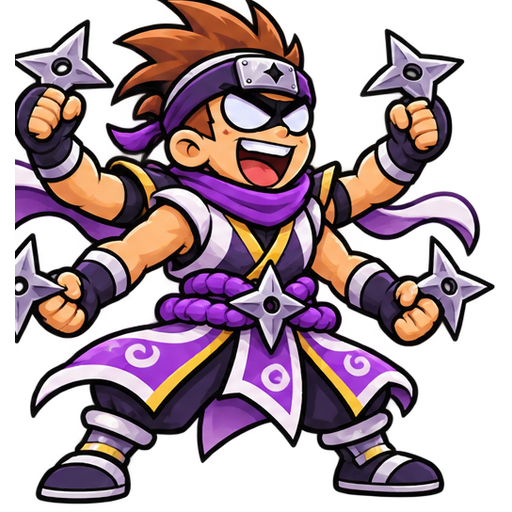
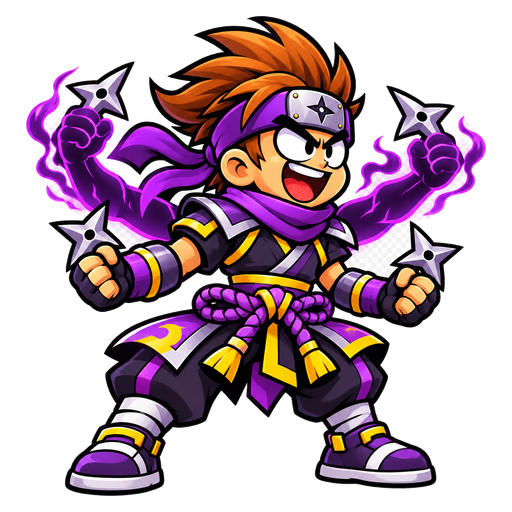
Add files via upload

diff --git a/app.js b/app.js
@@ -1,8 +1,8 @@
-/* Baston TV — Prototype 0.21.1. Aucun framework, ni serveur, ni compte requis. */
+/* Baston TV — Prototype 0.22. Aucun framework, ni serveur, ni compte requis. */
 "use strict";
 
 const SAVE_KEY = "bastontv-save-v03";
-const VERSION_LABEL = "0.21.1";
+const VERSION_LABEL = "0.22";
 const BASE_TRAINING_COST = 100;
 const TRAINING_INCREASE_EVERY = 3;
 const TRAINING_INCREASE_AMOUNT = 20;
@@ -46,7 +46,8 @@ const NINJA_LEVELS = [null,
 ];
 const NINJA_EQUIPMENT = [
   {id:'masque',label:'Masque',icon:'🥷'}, {id:'kunai',label:'Kunaï',icon:'🗡'},
-  {id:'tenue',label:'Tenue ninja',icon:'🥋'}, {id:'sandales',label:'Sandales',icon:'👣'}
+  {id:'tenue',label:'Tenue ninja',icon:'🥋'}, {id:'sandales',label:'Sandales',icon:'👣'},
+  {id:'shuriken',label:'Shuriken',icon:'🌟'}
 ];
 const SUMO_LEVELS = [null,
   {name:'Bébé Sumo',income:5},{name:'Le Poussin',income:12},{name:'L’Apprenti',income:29},
@@ -54,7 +55,8 @@ const SUMO_LEVELS = [null,
 ];
 const SUMO_EQUIPMENT = [
   {id:'mawashi',label:'Mawashi',icon:'🥋'}, {id:'chignon',label:'Chignon',icon:'🎀'},
-  {id:'bandages',label:'Bandages',icon:'🩹'}, {id:'corde',label:'Corde sacrée',icon:'🪢'}
+  {id:'bandages',label:'Bandages',icon:'🩹'}, {id:'corde',label:'Corde sacrée',icon:'🪢'},
+  {id:'sel',label:'Sel sacré',icon:'🧂'}, {id:'genouilleres',label:'Genouillères',icon:'🦵'}
 ];
 const ROBOT_LEVELS = [null,
   {name:'Bébé Boulon',income:6},{name:'Le Bidule',income:15},{name:'Le Turbo',income:38},
@@ -62,7 +64,9 @@ const ROBOT_LEVELS = [null,
 ];
 const ROBOT_EQUIPMENT = [
   {id:'boulons',label:'Boulons',icon:'🔩'}, {id:'puce',label:'Puce',icon:'💾'},
-  {id:'batterie',label:'Batterie',icon:'🔋'}, {id:'blindage',label:'Blindage',icon:'🛡'}
+  {id:'batterie',label:'Batterie',icon:'🔋'}, {id:'blindage',label:'Blindage',icon:'🛡'},
+  {id:'lentille',label:'Lentille optique',icon:'🔎'}, {id:'antenne',label:'Antenne',icon:'📡'},
+  {id:'servo',label:'Servo-moteur',icon:'⚙'}
 ];
 const LEVELS = [null,
   { name: "Bébé Bourrin", income: 3 },
@@ -101,6 +105,23 @@ const familyTabs = (selected,action) => `<div class="family-tabs" role="group" a
   if (!revealed) return action==='select-channel' ? '<span class="family-tab family-mystery" aria-label="Chaîne encore mystérieuse">🔒 ???</span>' : '';
   return `<button type="button" class="family-tab ${selected===f?'active':''}" data-action="${action}" data-family="${f}">${FAMILY_DATA[f].icon} ${FAMILY_DATA[f].name}${isFamilyUnlocked(f)?'':' 🔒'}</button>`;
 }).join('')}</div>`;
+function markEvolutionFound(fighter) {
+  const family=familyOf(fighter);
+  if (!game.evolutionJournal || typeof game.evolutionJournal!=='object') game.evolutionJournal={};
+  if (!game.evolutionJournal[family]) game.evolutionJournal[family]={};
+  // Toutes les étapes intermédiaires ont déjà été atteintes pour arriver ici.
+  for (let lvl=1;lvl<=fighter.level;lvl++) game.evolutionJournal[family][lvl]=true;
+}
+function evolutionJournalHtml(family) {
+  if (!isFamilyUnlocked(family)) return '';
+  return `<div class="evolution-journal-grid">${familyLevels(family).slice(1).map((stage,index)=>{
+    const level=index+1, found=Boolean(game.evolutionJournal?.[family]?.[level]);
+    return `<div class="evolution-journal-card ${found?'is-found':'is-hidden'}">
+      <div class="journal-art">${found?`<img loading="lazy" src="${imageFor(level,family)}" alt="${stage.name}">`:'<span aria-hidden="true">❔</span>'}</div>
+      <small>Niv. ${level}</small><strong>${found?stage.name:'???'}</strong>
+    </div>`;
+  }).join('')}</div>`;
+}
 const evolutionClass = level => level === 6 ? ' evolution-6' : '';
 function evolutionDecoration(level,family='boxe') {
   // Compatibilité des emplacements des anciennes décorations : le sprite complet
@@ -129,7 +150,8 @@ function freshSave() {
     gymCompanionId: null,
     eggs: [],
     shinyAlbum: {boxe:{},ninja:{},sumo:{},robot:{}},
-    schemaVersion: 21,
+    evolutionJournal: {boxe:{1:true},ninja:{},sumo:{},robot:{}},
+    schemaVersion: 22,
     devMode: false,
     nextFreeShopEggAt: 0,
     proteins: 0
@@ -231,6 +253,15 @@ if ((game.schemaVersion||0)<19) game.schemaVersion=19;
 if ((game.schemaVersion||0)<20) game.schemaVersion=20;
 // v0.21 : changement visuel et d’équilibrage uniquement, aucune ressource retirée.
 if ((game.schemaVersion||0)<21) game.schemaVersion=21;
+// v0.22 : archive permanente des stades atteints. Les objets existants
+// sont conservés ; les nouveaux équipements démarrent à 0.
+if (!game.evolutionJournal || typeof game.evolutionJournal !== 'object') game.evolutionJournal={};
+for (const f of FAMILY_ORDER) if (!game.evolutionJournal[f] || typeof game.evolutionJournal[f]!=='object') game.evolutionJournal[f]={};
+for (const fighter of game.fighters) {
+  const f=familyOf(fighter);
+  for (let level=1;level<=fighter.level;level++) game.evolutionJournal[f][level]=true;
+}
+if ((game.schemaVersion||0)<22) game.schemaVersion=22;
 let currentView = "home";
 let training = null;
 let latestReward = null;
@@ -452,6 +483,10 @@ function readableDuration(ms) {
 function channelLevel(family) {return game.channelLevels?.[family]||1;}
 function channelBonusPercent(family) {return CHANNEL_BONUSES[channelLevel(family)]||0;}
 function nextChannelUpgradeCost(family) {const level=channelLevel(family);return level>=CHANNEL_MAX_LEVEL?null:Math.round((CHANNEL_UPGRADE_COSTS[level]||11200)*({boxe:1,ninja:1.3,sumo:1.6,robot:2.2}[family]||1));}
+function nextChannelUpgradeGems(family) {
+  const level=channelLevel(family);
+  return level===8 ? 5 : level===9 ? 10 : 0;
+}
 function channelIncome(family) {
   if(!isFamilyUnlocked(family))return 0;
   const twoBest=familyFighters(family).sort(sortFighters).slice(0,2);
@@ -596,6 +631,7 @@ function homeScreen() {
   const info=FAMILY_DATA[family];
   const onAir=unlocked?strongestFighters(family):[];
   const nextCost=unlocked?nextChannelUpgradeCost(family):null;
+  const nextGems=unlocked?nextChannelUpgradeGems(family):0;
   return `<span class="kicker">📡 Les chaînes TV</span><h1 class="h1">Bienvenue au studio !</h1>
     <p class="muted">Chaque famille possède sa chaîne, ses deux vedettes et ses propres améliorations. Les revenus des chaînes se cumulent, même quand tu regardes une autre chaîne.</p>
     ${familyTabs(family,'select-channel')}
@@ -617,14 +653,13 @@ function homeScreen() {
     <button type="button" class="action pink" data-action="go-combat">⚔ Aller combattre</button>
     ${unlocked?`<section class="card"><h2>🔧 Améliorer ${info.channel}</h2>
       <p class="muted">${CHANNEL_MAX_LEVEL} niveaux par chaîne. Les améliorations ne renforcent que ${info.channel}, avec un bonus maximum de +100 %.</p>
-      <div class="price"><span>Prochain niveau</span><span>${nextCost?`🪙 ${format(nextCost)}`:'MAX'}</span></div>
-      <button class="action" type="button" data-action="upgrade" ${!nextCost || game.coins<nextCost?'disabled':''}>${nextCost?`Améliorer (+${CHANNEL_BONUSES[channelLevel(family)+1]-channelBonusPercent(family)} %)`:'Chaîne au maximum'}</button></section>`:''}
+      <div class="price"><span>Prochain niveau</span><span>${nextCost?`🪙 ${format(nextCost)}${nextGems?` + 💎 ${nextGems}`:''}`:'MAX'}</span></div>
+      <button class="action" type="button" data-action="upgrade" ${!nextCost || game.coins<nextCost || game.gems<nextGems?'disabled':''}>${nextCost?`Améliorer (+${CHANNEL_BONUSES[channelLevel(family)+1]-channelBonusPercent(family)} %)`:'Chaîne au maximum'}</button>
+      <p class="subnote">Niveaux 1 à 8 : pièces uniquement. Niveau 9 : +5 💎 · Niveau 10 : +10 💎.</p></section>`:''}
     ${unlocked?`<section class="card evolution-roadmap"><h2>${info.icon} Évolutions ${info.name}</h2>
       <p class="muted">Six stades. Il faut 32 recrues niveau 1 pour créer un niveau 6 sans protéine.</p>
-      <div class="evolution-roadmap-grid">${familyLevels(family).slice(1).map((stage,index)=>{
-        const level=index+1,found=familyFighters(family).some(f=>f.level>=level);
-        return `<div class="roadmap-step ${found?'roadmap-unlocked':''}"><small>Stade ${level}</small><strong>${found?'✓':'🔒'} ${stage.name}</strong><span>+${stage.income} 🪙/min</span></div>`;
-      }).join('')}</div></section>`:'<section class="card mystery-roadmap"><h2>🔒 Évolutions secrètes</h2><p class="muted">Débloque cette chaîne pour découvrir ses six évolutions et leurs revenus.</p></section>'}
+      ${evolutionJournalHtml(family)}
+      <p class="subnote">Les illustrations découvertes restent visibles après tes fusions.</p></section>`:'<section class="card mystery-roadmap"><h2>🔒 Évolutions secrètes</h2><p class="muted">Débloque cette chaîne pour découvrir ses six évolutions et leurs revenus.</p></section>'}
     <section class="install-panel" id="install-panel"><h2>📱 Baston TV sur ton téléphone</h2>
       <p>Installe le jeu depuis ton navigateur pour le retrouver sur ton écran d’accueil.</p>
       <button class="action secondary" type="button" data-action="install-app" id="install-app-button">📲 Installer Baston TV</button></section>`;
@@ -635,14 +670,15 @@ function gymScreen() {
   if(training)return `<span class="kicker">🥊 Entraînement ${FAMILY_DATA[family].name}</span><h1 class="h1">Frappe les points faibles !</h1>
     <div class="train-stat"><span>⏱ <span id="training-timer">20,0</span> s</span><span>⭐ <span id="training-hits">0</span> touches</span><span>🔥 <span id="training-combo">0</span></span><span>❌ <span id="training-misses">0</span></span></div>
     <div class="progress"><span id="training-progress" style="width:100%"></span></div>
-    <div class="bag-arena" id="bag-arena" style="margin-top:12px"><span class="gym-status" id="gym-status">Vise la cible !</span>${gymCompanionHtml(companion)}<div class="bag-swing" id="bag-swing"><div class="bag-cable" aria-hidden="true"></div><div class="bag" id="bag"><button class="spot" id="spot" data-action="hit" aria-label="Frapper le point faible" style="left:50%;top:45%"></button></div></div></div>
+    <div class="bag-arena" id="bag-arena" style="margin-top:12px"><span class="gym-status" id="gym-status">Vise la cible !</span>${gymCompanionHtml(companion)}<div class="bag-swing" id="bag-swing"><div class="bag-cable" aria-hidden="true"></div><div class="bag bag-${family}" id="bag"><button class="spot" id="spot" data-action="hit" aria-label="Frapper le point faible" style="left:50%;top:45%"></button></div></div></div>
     <p class="muted">Tu récoltes uniquement des équipements ${FAMILY_DATA[family].name} pendant cette séance.</p>`;
   const result=latestReward?`<section class="card"><h2>🎁 Dernière séance · ${FAMILY_DATA[latestReward.family||'boxe'].name}</h2><p class="muted">${latestReward.hits} point(s) · combo : ${latestReward.best} · erreurs : ${latestReward.misses}</p>
       <div class="reward-list">${latestReward.items.length?latestReward.items.map(id=>{const item=familyEquipment(latestReward.family||'boxe').find(x=>x.id===id);return `<span class="reward-bubble">${item?.icon||''} ${item?.label||id}</span>`;}).join(''):'<span>Aucun équipement cette fois.</span>'}</div></section>`:'';
   return `<span class="kicker">🎯 Les coulisses</span><h1 class="h1">Salle d'entraînement</h1>
     <p class="muted">Choisis la famille à entraîner : les équipements récoltés serviront uniquement à recruter des combattants de cette famille.</p>
     ${familyTabs(family,'select-gym-family')}
-    <div class="bag-arena">${gymCompanionHtml(companion)}<div class="bag-swing"><div class="bag-cable" aria-hidden="true"></div><div class="bag"><div class="spot" style="left:49%;top:34%;pointer-events:none"></div></div></div></div>
+    <p class="subnote training-target-name">${({boxe:"🥊 Sac de frappe",ninja:"🥷 Mannequin de bois",sumo:"🥋 Pilier de poussée",robot:"🤖 Cible mécanique"})[family]}</p>
+    <div class="bag-arena">${gymCompanionHtml(companion)}<div class="bag-swing"><div class="bag-cable" aria-hidden="true"></div><div class="bag bag-${family}"><div class="spot" style="left:49%;top:34%;pointer-events:none"></div></div></div></div>
     <button class="action gym-start-cta" type="button" data-action="start-training" ${game.coins<trainingCost(family)?'disabled':''}>🥊 Commencer la séance ${FAMILY_DATA[family].icon} · ${format(trainingCost(family))} 🪙</button>
     ${gymRosterHtml(companion)}
     <div class="stat-grid"><div class="stat"><small>⏱ Durée</small><b>20 s</b></div><div class="stat"><small>🪙 Prix ${FAMILY_DATA[family].name}</small><b>${format(trainingCost(family))}</b></div></div>
@@ -682,7 +718,7 @@ function collectionScreen() {
       <p class="subnote">Normal + normal → normal · Shiny + shiny → shiny. Pas de mélange entre les familles.</p></section>
     <section class="card"><h2>🎁 Équipements ${info.name}</h2><div class="eq-grid">${equipment.map(item=>`<div class="eq-item ${inventory[item.id]>0?'ready':''}"><span>${item.icon} ${item.label}</span><b>×${inventory[item.id]}</b></div>`).join('')}</div>
       <button class="action" type="button" data-action="recruit" ${ready?'':'disabled'}>${info.icon} Recruter : ${familyLevels(family)[1].name}</button>
-      <p class="subnote">Consomme un exemplaire de chaque équipement ${info.name}. Les équipements sont propres à chaque famille.</p></section>
+      <p class="subnote">Recrutement ${info.name} : <b>${equipment.length} équipements différents</b>, un exemplaire de chacun. Les familles suivantes sont plus difficiles à recruter.</p></section>
     <section class="card protein-panel"><h2>🥤 Protéine d'évolution</h2>
       <p class="muted">Tu possèdes <b>${game.proteins} protéine(s)</b>. Utilisable sur toutes les familles, même sur un shiny.</p>
       <label for="protein-fighter" class="protein-label">Choisir le bénéficiaire</label>
@@ -705,7 +741,7 @@ function fuseFighters(firstId, secondId) {
   const companionWasUsed = game.gymCompanionId===a.id || game.gymCompanionId===b.id;
   const fused = {id:getNewId(),family:familyOf(a),level:newLevel,shiny:Boolean(a.shiny)};
   game.fighters=game.fighters.filter(f=>f.id!==a.id && f.id!==b.id);
-  game.fighters.push(fused);
+  game.fighters.push(fused);markEvolutionFound(fused);
   if (companionWasUsed) game.gymCompanionId=fused.id;
   if (a.shiny) game.shinyAlbum[familyOf(a)][newLevel]=true;
   clearLockerSelection();
@@ -824,6 +860,10 @@ function laterScreen() {
       ${!game.eggs.length?'<p class="subnote">Achète un œuf ou gagne sept combats pour remplir l’incubateur.</p>':''}
       <p class="subnote">Les gemmes réduisent l'incubation de 30 minutes. Les shinies gardent les mêmes statistiques que les normaux.</p>
     </section>
+    <section class="card"><h2>📖 Journal des évolutions</h2>
+      <p class="muted">Retrouve les personnages que tu as déjà découverts. Les autres restent mystérieux.</p>
+      ${FAMILY_ORDER.filter(f=>isFamilyUnlocked(f)).map(f=>`<details class="shop-journal-family"><summary>${FAMILY_DATA[f].icon} ${FAMILY_DATA[f].name} · ${Object.values(game.evolutionJournal?.[f]||{}).filter(Boolean).length}/6 découvertes</summary>${evolutionJournalHtml(f)}</details>`).join('')}
+    </section>
     <section class="card"><h2>✨ Album shiny — Toutes les familles</h2>${shinyEntries}
       <p class="muted">Chaque nouvelle évolution shiny découverte rapporte <b>+1 % de revenus TV permanents</b>. Bonus actuel : <b>+${shinyBonusPercent()} %</b>.</p>
     </section>
@@ -850,7 +890,7 @@ function hatchEgg(id) {
   const egg=game.eggs.find(e=>e.id===id);
   if (!egg || eggState(egg)!=='ready') return;
   const fighter={id:getNewId(),family:familyOf(egg),level:egg.level,shiny:Boolean(egg.shiny)};
-  game.fighters.push(fighter);
+  game.fighters.push(fighter);markEvolutionFound(fighter);
   if (fighter.shiny) game.shinyAlbum[familyOf(fighter)][fighter.level]=true;
   game.eggs=game.eggs.filter(e=>e.id!==id);
   playSound('recruit');save();render();
@@ -903,7 +943,7 @@ function useProtein() {
   if (fighter.level >= MAX_FIGHTER_LEVEL) return showToast('Ce combattant est déjà au niveau 6.');
   const before=fighterName(fighter), after=familyLevels(familyOf(fighter))[fighter.level+1].name;
   if (!window.confirm(`Utiliser 1 protéine sur ${before}${fighter.shiny?' ✨ shiny':''} ? Il deviendra ${after}, sans utiliser de deuxième combattant.`)) return;
-  fighter.level++;
+  fighter.level++;markEvolutionFound(fighter);
   game.proteins--;
   if (fighter.shiny) game.shinyAlbum[familyOf(fighter)][fighter.level]=true;
   clearLockerSelection();
@@ -1127,12 +1167,14 @@ function startCombatStrike() {
   }
 }
 function aiGrade(kind,family,level) {
-  // Les zones ne sont pas choisies systématiquement en fonction de leur taille :
-  // une IA imparfaite peut réussir un critique, mais aussi rater son coup.
+  // IA plus régulière : elle vise principalement le vert et rate rarement.
+  // Attaque : 10 % gris, 65 % vert, 20 % bleu, 5 % rouge.
+  // Défense : 15 % gris, 60 % vert, 20 % bleu, 5 % rouge.
   const profile=FIGHT_FAMILIES[family];
   const marks=kind==='attack'?profile.attackZones:profile.defenseZones;
   const roll=Math.random();
-  const rank=roll<.17?3:roll<.29?2:roll<.64?1:0;
+  const weak=kind==='attack'?.10:.15;
+  const rank=roll<weak?0:roll<.75?1:roll<.95?2:3;
   const lo=rank===0?0:marks[rank-1],hi=rank===3?100:marks[rank];
   return timingGrade(kind,family,(lo+hi)/2);
 }
@@ -1367,10 +1409,10 @@ function changeView(next) {
   window.scrollTo({top:0,behavior:"instant"});
 }
 function upgrade() {
-  const family=game.selectedChannel,cost=nextChannelUpgradeCost(family);
-  if(!isFamilyUnlocked(family)||!cost||game.coins<cost)return;
-  advanceCoins(); if(game.coins<cost)return;
-  game.coins-=cost;game.channelLevels[family]++;
+  const family=game.selectedChannel,cost=nextChannelUpgradeCost(family),gems=nextChannelUpgradeGems(family);
+  if(!isFamilyUnlocked(family)||!cost||game.coins<cost||game.gems<gems)return;
+  advanceCoins(); if(game.coins<cost||game.gems<gems)return;
+  game.coins-=cost;game.gems-=gems;game.channelLevels[family]++;
   save();render();showToast(`📺 ${FAMILY_DATA[family].channel} niveau ${channelLevel(family)} : +${channelBonusPercent(family)} % !`);
 }
 function unlockFamily(family) {
@@ -1382,7 +1424,7 @@ function unlockFamily(family) {
   game.unlockedFamilies[family]=true;
   game.channelLevels[family]=Math.max(1,game.channelLevels[family]||1);
   const first={id:getNewId(),family,level:1,shiny:false};
-  game.fighters.push(first);
+  game.fighters.push(first);markEvolutionFound(first);
   game.selectedChannel=family;game.selectedLockerFamily=family;game.selectedGymFamily=family;
   game.gymCompanionId=null;
   save();render();playSound('recruit');showToast(`${info.icon} ${info.channel} débloquée ! ${fighterName(first)} rejoint ton équipe.`);
@@ -1576,7 +1618,7 @@ function recruit() {
   if(!isFamilyUnlocked(family)||!items.every(item=>inventory[item.id]>0))return;
   items.forEach(item=>inventory[item.id]--);
   const fighter={id:getNewId(),family,level:1,shiny:false};
-  game.fighters.push(fighter);
+  game.fighters.push(fighter);markEvolutionFound(fighter);
   playSound('recruit');save();render();showToast(`${FAMILY_DATA[family].icon} ${fighterName(fighter)} recruté !`);
 }
 

diff --git a/styles.css b/styles.css
@@ -472,3 +472,32 @@
 .training-reward-item{display:flex;flex-direction:column;align-items:center;text-align:center;gap:4px;border:2px solid #dcc6fa;background:white;border-radius:14px;padding:10px 5px}
 .training-reward-item span{font-size:36px}.training-reward-item strong{font-size:12px}.training-reward-item b{color:#6322a8;font-size:19px}
 @media(max-width:365px){.family-tab{font-size:11px}}
+
+/* === v0.22 : nouveaux objets d'entraînement, journal et progression === */
+.evolution-journal-grid{display:grid;grid-template-columns:repeat(3,minmax(0,1fr));gap:9px;margin-top:12px}
+.evolution-journal-card{min-width:0;text-align:center;border:2px solid #e7d2fc;border-radius:14px;background:linear-gradient(180deg,#fdfaff,#f3e8ff);padding:8px 3px;display:flex;flex-direction:column;align-items:center;gap:3px}
+.evolution-journal-card.is-found{border-color:#e8ba3f;background:linear-gradient(180deg,#fff8e6,#f2e4ff)}
+.evolution-journal-card .journal-art{height:88px;width:100%;display:flex;align-items:center;justify-content:center}
+.evolution-journal-card .journal-art img{height:100%;max-width:95%;object-fit:contain;filter:drop-shadow(0 3px 2px #31165136)}
+.evolution-journal-card .journal-art span{font-size:34px;filter:grayscale(1);opacity:.45}
+.evolution-journal-card small{font-size:10px;font-weight:800;color:#7a4bb2}
+.evolution-journal-card strong{font-size:11px;line-height:1.15;overflow-wrap:anywhere;color:#301253}
+.evolution-journal-card.is-hidden{background:#f2edf8;opacity:.75}
+.shop-journal-family{border:1px solid #dfc9f4;border-radius:13px;background:#fbf7ff;margin:9px 0;overflow:hidden}
+.shop-journal-family summary{cursor:pointer;padding:12px;font-size:13px;font-weight:900;color:#52218f;list-style-position:inside}
+.shop-journal-family[open]{padding-bottom:12px}
+.shop-journal-family .evolution-journal-grid{padding:0 9px}
+.training-target-name{font-weight:900;color:#6328a3;margin:6px 0}
+/* Les quatre silhouettes occupent exactement la même surface de frappe :
+   aucun changement au calcul des points faibles ni à la hitbox. */
+.bag.bag-ninja{background:linear-gradient(90deg,#6b3721,#c78b4e 28%,#ab6635 60%,#593118);border-color:#54301c;border-radius:21px;box-shadow:inset 17px 0 0 #e5a87066,10px 10px 0 #26134233}
+.bag.bag-ninja::before{content:"";position:absolute;top:30%;left:-21%;width:142%;height:16px;border:4px solid #54301c;border-radius:13px;background:linear-gradient(#dda567,#8d4d2a);z-index:0;pointer-events:none}
+.bag.bag-ninja::after{content:"◎";font-size:88px;color:#642f2288;top:44%}
+.bag.bag-sumo{background:linear-gradient(90deg,#8b432a,#e7b46c 30%,#c68651 69%,#74412e);border:6px solid #6c3b28;border-radius:40% 40% 25% 25%/15% 15% 10% 10%;box-shadow:inset 16px 0 #fff4,12px 10px #26134228}
+.bag.bag-sumo::before{content:"";position:absolute;top:24%;left:-3%;width:106%;height:21px;background:repeating-linear-gradient(90deg,#e8c25e 0 12px,#c38932 12px 18px);border:3px solid #6c3b28;border-radius:15px;pointer-events:none}
+.bag.bag-sumo::after{content:"押";font-size:76px;color:#9a4d3d91;top:49%}
+.bag.bag-robot{background:linear-gradient(95deg,#6b7399,#c7d6e8 21%,#8ca8c2 57%,#4b5675);border:7px solid #394762;border-radius:18px;box-shadow:inset 12px 2px #e9f9ff70,11px 11px #2613422c}
+.bag.bag-robot::before{content:"";position:absolute;inset:7% 7%;border:3px dashed #405570;border-radius:13px;pointer-events:none}
+.bag.bag-robot::after{content:"◉";font-size:90px;top:47%;color:#00c9efbb;text-shadow:0 0 17px #42e8ff;pointer-events:none}
+.bag.bag-robot~.bag-cable{background:#334755}
+@media(min-width:460px){.evolution-journal-grid{grid-template-columns:repeat(6,minmax(0,1fr))}}

diff --git a/index.html b/index.html
@@ -9,12 +9,12 @@
   <link rel="icon" type="image/png" href="./assets/icon-192.png">
   <link rel="apple-touch-icon" href="./assets/icon-192.png">
   <link rel="stylesheet" href="./styles.css">
-  <title>Baston TV — Prototype 0.21.1</title>
+  <title>Baston TV — Prototype 0.22</title>
 </head>
 <body>
   <div class="app-shell">
     <header class="topbar">
-      <div class="brand"><span class="brand-icon" aria-hidden="true">📺</span><div><strong>BASTON <span>TV</span></strong><small>Prototype 0.21.1</small></div></div>
+      <div class="brand"><span class="brand-icon" aria-hidden="true">📺</span><div><strong>BASTON <span>TV</span></strong><small>Prototype 0.22</small></div></div>
       <div class="header-tools"><button class="settings-toggle" type="button" data-view="settings" title="Paramètres" aria-label="Ouvrir les paramètres">⚙</button><button id="sound-toggle" class="sound-toggle" type="button" data-action="toggle-sound" aria-pressed="true" aria-label="Couper les sons" title="Activer ou couper les sons">🔊</button><div class="money gem-balance" aria-label="Solde de gemmes"><span aria-hidden="true">💎</span><strong id="gems-live">10</strong></div><div class="money" aria-label="Solde de pièces"><span aria-hidden="true">🪙</span><strong id="coins-live">600</strong></div></div>
     </header>
     <main id="screen" class="screen" aria-live="polite"></main>

diff --git a/sw.js b/sw.js
@@ -1,5 +1,5 @@
-// Cache PWA v0.21.1. Network-first pour HTML/CSS/JS afin de voir les mises à jour publiées.
-const CACHE = "baston-tv-v0211";
+// Cache PWA v0.22. Network-first pour HTML/CSS/JS afin de voir les mises à jour publiées.
+const CACHE = "baston-tv-v022";
 const FILES = ["./", "./index.html", "./styles.css", "./app.js", "./manifest.webmanifest", "./assets/icon-192.png", "./assets/icon-512.png", "./assets/boxeur-1.png", "./assets/boxeur-2.png", "./assets/boxeur-3.png", "./assets/boxeur-4.png", "./assets/boxeur-5.png", "./assets/boxeur-6.png", "./assets/ninja-1.png", "./assets/ninja-2.png", "./assets/ninja-3.png", "./assets/ninja-4.png", "./assets/ninja-5.png", "./assets/ninja-6.png", "./assets/sumo-1.png", "./assets/sumo-2.png", "./assets/sumo-3.png", "./assets/sumo-4.png", "./assets/sumo-5.png", "./assets/sumo-6.png", "./assets/robot-1.png", "./assets/robot-2.png", "./assets/robot-3.png", "./assets/robot-4.png", "./assets/robot-5.png", "./assets/robot-6.png", "./assets/audio/clic.wav", "./assets/audio/confirmation.wav", "./assets/audio/sac-frappe.wav", "./assets/audio/coup-rapide.wav", "./assets/audio/uppercut.wav", "./assets/audio/riposte.wav"];
 self.addEventListener("install", event => {
   event.waitUntil(caches.open(CACHE).then(cache => cache.addAll(FILES)).then(() => self.skipWaiting()));

diff --git a/README.md b/README.md
@@ -1,23 +1,18 @@
-# Baston TV — Prototype v0.21.1
+# Baston TV — v0.22
 
-Cette édition remplace directement la v0.21. Tu peux passer de la v0.20 à la v0.21.1 : **aucune installation intermédiaire n’est nécessaire**.
+## Changements
 
-## Corrections graphiques
+- Ninja niveau 6 : 2 bras naturels + 2 bras d’ombre violets, sprite PNG entièrement détouré.
+- Chaînes : niveaux 9 et 10 coûtent maintenant les pièces habituelles **et** respectivement 5 puis 10 gemmes.
+- IA : elle vise plus souvent la zone verte et rate rarement (attaque : 10 % gris, 65 % vert, 20 % bleu, 5 % rouge ; défense : 15/60/20/5).
+- Journal visuel des évolutions : sur la chaîne concernée et dans la boutique, illustrations des stades déjà découverts et ??? pour les autres. Les découvertes sont enregistrées localement.
+- Recrutement : Bourrins = 4 équipements différents, Ninjas = 5, Sumos = 6, Robots = 7. Un exemplaire de chaque ; les inventaires existants sont conservés et les nouvelles catégories démarrent à zéro.
+- Entraînement : un sac de boxe, un mannequin en bois Ninja, un pilier Sumo ou une cible Robot, même mécanique des points faibles.
 
-- **Bébé Bourrin (niveau 1)** : illustration conservée **à l’identique** depuis la v0.20.
-- **Le Titan (niveau 5)** : nouveau dessin à **deux bras**, très musclé, **sans ceinture de champion**.
-- **Le Champion (niveau 6)** : nouveau dessin à **deux bras**, expression sérieuse et confiante, avec **grosses ceintures dorées** aux épaules et à la taille. Le nom « Le Quadri-Poings » a été remplacé pour correspondre à son nouveau design.
-- **Ninja (niveau 5)** : retrait des fragments détachés appartenant à l’évolution voisine, sans changer son apparence principale.
-- Les autres dessins des Bourrins (niveaux 2 à 4) restent identiques à la v0.21.
+## Sauvegardes
 
-## Équilibrage de la v0.21 conservé
+La clé de sauvegarde reste `bastontv-save-v03` ; passage du schéma en version 22, les anciens personnages et ressources sont conservés. Les éléments du journal sont déduits des niveaux présents dans les anciennes sauvegardes.
 
-Défense : gris 20 %, vert 35 %, bleu 75 %, rouge 0 %. Zones vertes affinées, Robot : zones bleues légèrement agrandies et 12 % de blindage passif. La liste des protéines affiche la famille et ✨ pour les shinies, sans identifiant visible.
+## Installation GitHub Pages
 
-## Compatibilité
-
-Même clé de sauvegarde `bastontv-save-v03`, mêmes niveaux, mêmes coûts, mêmes gains et mêmes familles. Changer le nom de l’évolution 6 n’altère ni les combattants existants ni leurs statistiques.
-
-## Installation sur GitHub Pages
-
-Décompresse le ZIP `BastonTV_GitHubPages_v0.21.1.zip`, puis téléverse **tous les fichiers qu’il contient à la racine** du dépôt, dont `index.html`, `app.js`, `sw.js`, `styles.css`, le dossier `assets/` et ses images. Vérifie que les images `boxeur-1.png`, `boxeur-5.png`, `boxeur-6.png` et `ninja-5.png` ont été mises à jour. Termine par **Commit changes** ; le service worker utilise le cache `baston-tv-v0211`.
+Décompresser la version GitHub et envoyer les **fichiers contenus à la racine** du dépôt : index.html, app.js, styles.css, sw.js, manifest.webmanifest, .nojekyll, ainsi que le dossier assets et ses sous-dossiers. Settings → Pages doit pointer sur main / (root). Après publication, fermer puis rouvrir l’application PWA pour recharger le cache v022.
